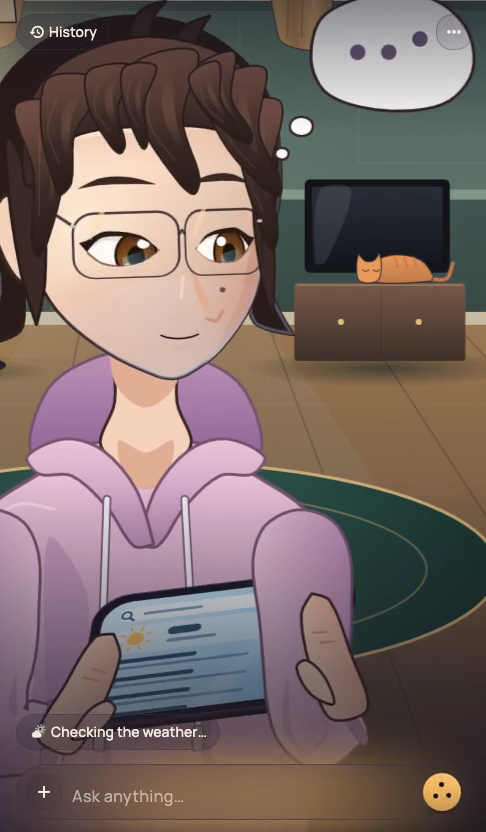
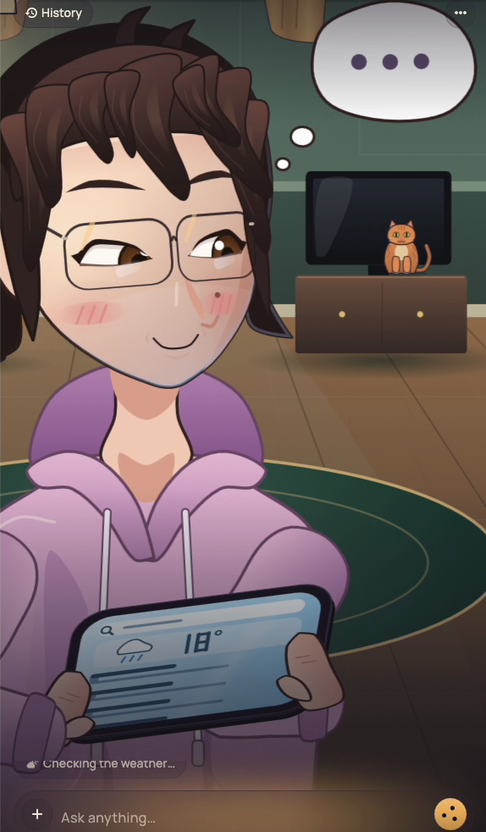
docs(readme): fresh tablet screenshot, Ko-fi 'Buy me some tokens'
The weather-tablet screenshot is retaken from the new Kokoro capture
(after the newspaper/tablet grip fix).

diff --git a/README.md b/README.md
@@ -2,7 +2,7 @@
 
 An open-source Flutter app that gives an AI assistant a voice, an expressive Rive avatar, and a world to inhabit. Type a message or use speech input on supported platforms; the assistant streams its reply, speaks it aloud, and acts along with the conversation.
 
-[Android releases](https://github.com/YofarDev/yofardev_ai/releases) · [Web demo](https://yofardev-ai.web.app) (limited features) · [Support on Ko-fi](https://ko-fi.com/yofardev)
+[Android releases](https://github.com/YofarDev/yofardev_ai/releases) · [Web demo](https://yofardev-ai.web.app) (limited features) · [Buy me some tokens on Ko-fi](https://ko-fi.com/yofardev)
 
 Bring your own LLM: connect a cloud or local server through an OpenAI-compatible API. The voice runs on-device; the language model runs wherever your configured endpoint lives.
 
@@ -123,7 +123,7 @@ The [original YouTube demo](https://www.youtube.com/watch?v=UXpE2vQsJhY) shows a
 
 ## Support
 
-If you enjoy the app or want to support its development, [buy me a coffee on Ko-fi](https://ko-fi.com/yofardev). Bug reports and contributions are welcome through [GitHub issues](https://github.com/YofarDev/yofardev_ai/issues) and pull requests.
+If you enjoy the app or want to support its development, [buy me some tokens on Ko-fi](https://ko-fi.com/yofardev). Bug reports and contributions are welcome through [GitHub issues](https://github.com/YofarDev/yofardev_ai/issues) and pull requests.
 
 ## License
 

diff --git a/screenshots/README.md b/screenshots/README.md
@@ -7,11 +7,11 @@ The conversations and weather in these recordings are scripted using the integra
 | Image | Recording | Time in recording |
 | --- | --- | --- |
 | `stage-living-room.png` | `rive/review/m12/wow/wow2.mp4` | 0.0 s |
-| `weather-tablet.png` | `rive/review/m12/wow/wow2.mp4` | 6.8 s |
+| `weather-tablet.png` | film capture `film_hello` (8 Nov 2026, Kokoro voice, after the newspaper/tablet grip fix; not in the repo) | 26.9 s |
 | `campfire-story.png` | `rive/review/m12/wow/wow1.mp4` | 6.0 s |
 | `beach-sunset.png` | `rive/review/m12/wow/wow3.mp4` | 11.5 s |
 
-The PNGs are extracted at the recordings' original 486 × 832 resolution without retouching. From the repository root, for example:
+The PNGs are extracted at the recordings' original 486 × 832 resolution without retouching (`weather-tablet.png` was re-taken from a 574 × 1020 capture and scaled and cropped to the same size). From the repository root, for example:
 
 ```bash
 ffmpeg -y -ss 6.8 -i rive/review/m12/wow/wow2.mp4 -frames:v 1 screenshots/weather-tablet.png
